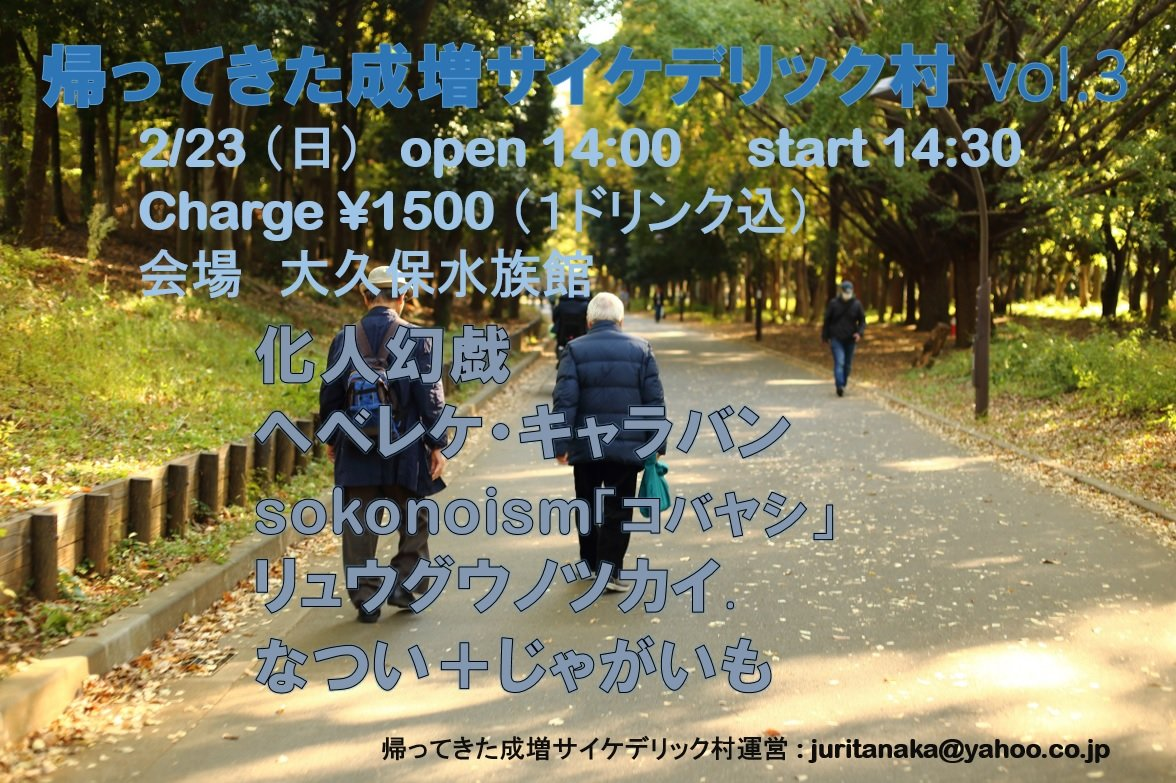
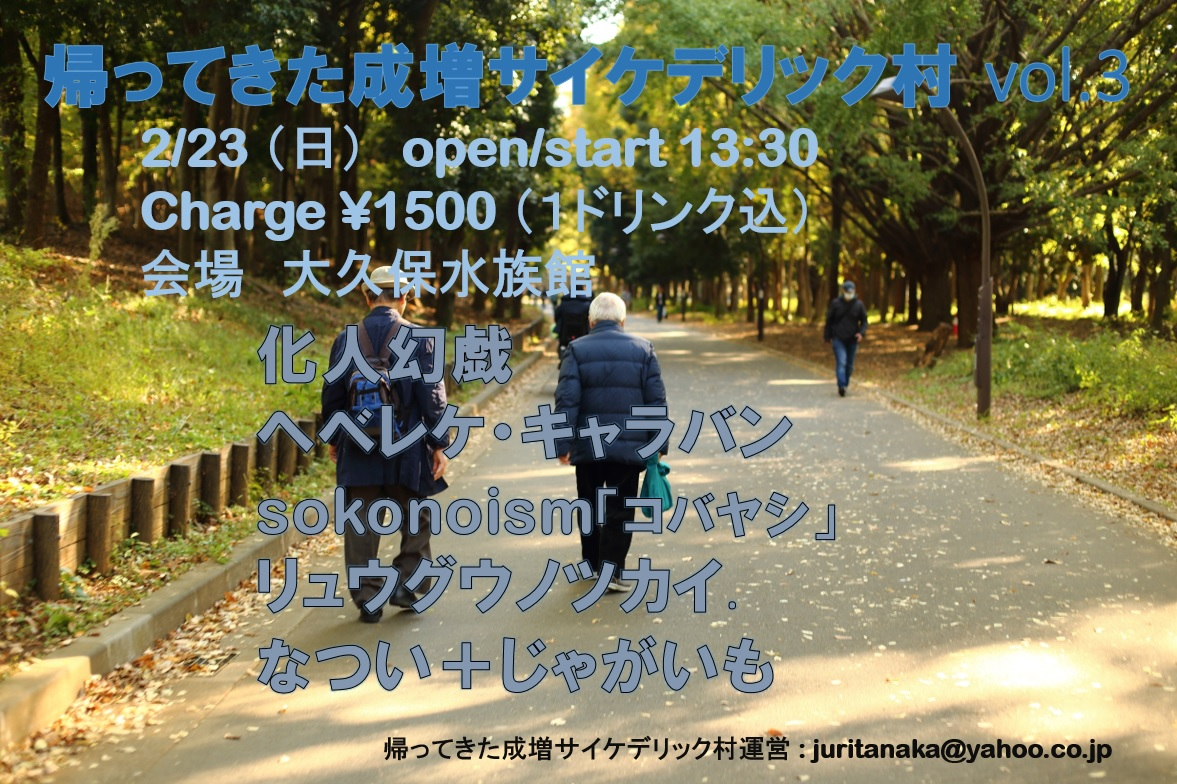
update

diff --git a/index.html b/index.html
@@ -21,7 +21,7 @@
     <div id="result"></div>
     <script src="js/countdown.js"></script> 
     <br>     
-    2020年2月23日(日) OPEN 14:00 START 14:30<br>
+    2020年2月23日(日) OPEN/START 14:30<br>
     料金　￥1500（1ドリンク込み）<br>
     会場　大久保水族館
     <br>
@@ -29,7 +29,7 @@
     <iframe src="https://www.google.com/maps/embed?pb=!1m18!1m12!1m3!1d3240.051241195045!2d139.69778921557082!3d35.70035663652965!2m3!1f0!2f0!3f0!3m2!1i1024!2i768!4f13.1!3m3!1m2!1s0x60188d28c9a54ca9%3A0x681fb4578e2fbcdd!2z44Op44Kk44OW44OQ44O85aSn5LmF5L-d5rC05peP6aSo!5e0!3m2!1sja!2sjp!4v1580738686586!5m2!1sja!2sjp" width="450" height="300" frameborder="0" style="border:0;" allowfullscreen=""></iframe>
     <p>
     出演<br>
-    14:30-14:00 なつい+じゃがいも<br>
+    13:30-14:00 なつい＋じゃがいも<br>
     14:10-14:40 sokonoism「コバヤシ」<br>
     14:50-15:20 ヘベレケ・キャラバン<br>
     15:30-16:00 化人幻戯<br>

diff --git a/js/countdown.js b/js/countdown.js
@@ -1,4 +1,4 @@
-var endDate = new Date('2020/02/23 14:30:00');
+var endDate = new Date('2020/02/23 13:30:00');
 var interval = 1000;
 
 
